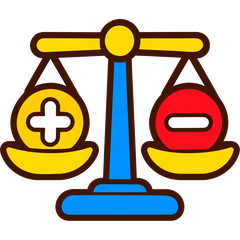
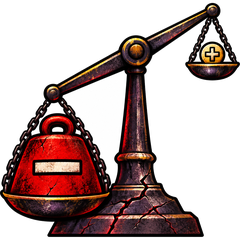
points: ルールのイラストを危機感のある見た目に

diff --git a/points/index.html b/points/index.html
@@ -120,7 +120,7 @@
   .rcard h3 em { font-style: normal; color: var(--red); }
   .rcard p { margin: 6px 0 0; font-family: 'M PLUS Rounded 1c', sans-serif; font-weight: 800; font-size: clamp(11px, 3.1vw, 13px); line-height: 1.6; color: #6b4a2a; }
   .rcard.bad { background: linear-gradient(#ffe9ec, #ffc9d1); }
-  .rcard.ult { background: linear-gradient(#3a0a18, #12040a); color: #fff; } .rcard.ult h3 em { color: #ff5a6e; } .rcard.ult p { color: #ffb3bd; }
+  .rcard.ult { background: linear-gradient(#3a0a18, #12040a); color: #fff; } .rcard.ult img { filter: drop-shadow(0 0 10px rgba(255, 40, 60, .85)) drop-shadow(0 0 2px rgba(255, 120, 130, .9)); } .rcard.ult h3 em { color: #ff5a6e; } .rcard.ult p { color: #ffb3bd; }
   .rcard.good { background: linear-gradient(#fffbe0, #ffe38a); } .rcard.good h3 em { color: #d17a00; }
   @media (max-width: 640px) { .rgrid { grid-template-columns: 1fr 1fr; gap: 14px 10px; } .rcard { padding: 16px 6px 12px; } }
 
@@ -280,7 +280,7 @@ function buildMeter() {
   document.getElementById('rules').innerHTML = [
     ['', 'img_rule_subs.png', `目標は<br><em>登録者 × ${cfg.targetPerSub}</em>`, `依頼者さんのチャンネル登録者数の${cfg.targetPerSub}倍が目標再生数（最低 ${fmt(cfg.targetMin)} 回）`],
     ['', 'img_rule_points.png', `目標との差が<br><em>そのまま点数</em>に`, `目標 6,000 で 3,000 回なら −3,000点。超えた分はプラス！`],
-    ['bad', 'img_dart.png', `−${fmt(cfg.stockEvery)}点ごとに<br><em>罰ゲーム抽選</em>`, `抽選は1回ずつストック。月末にまとめて抽選！`],
+    ['bad', 'img_rule_dart.png', `−${fmt(cfg.stockEvery)}点ごとに<br><em>罰ゲーム抽選</em>`, `抽選は1回ずつストック。月末にまとめて抽選！`],
     ['bad', 'img_rule_out.png', `${cfg.outsFor}本連続未達で<br><em>−${fmt(cfg.outPenalty)}点</em>`, `目標に届かない動画が3本続くと大きく減点。目標を超えるとアウトは0に戻る`],
     ['ult', 'img_rule_horror.png', `0点になったら<br><em>最強罰ゲーム</em>`, `富士急ハイランド「${cfg.ultimate.short}」へ行きます`],
     ['good', 'img_rule_reward.png', `${fmt(cfg.rewardLine)}点で<br><em>ご褒美ルーレット</em>`, `何がもらえるかはルーレットで決定！`],
